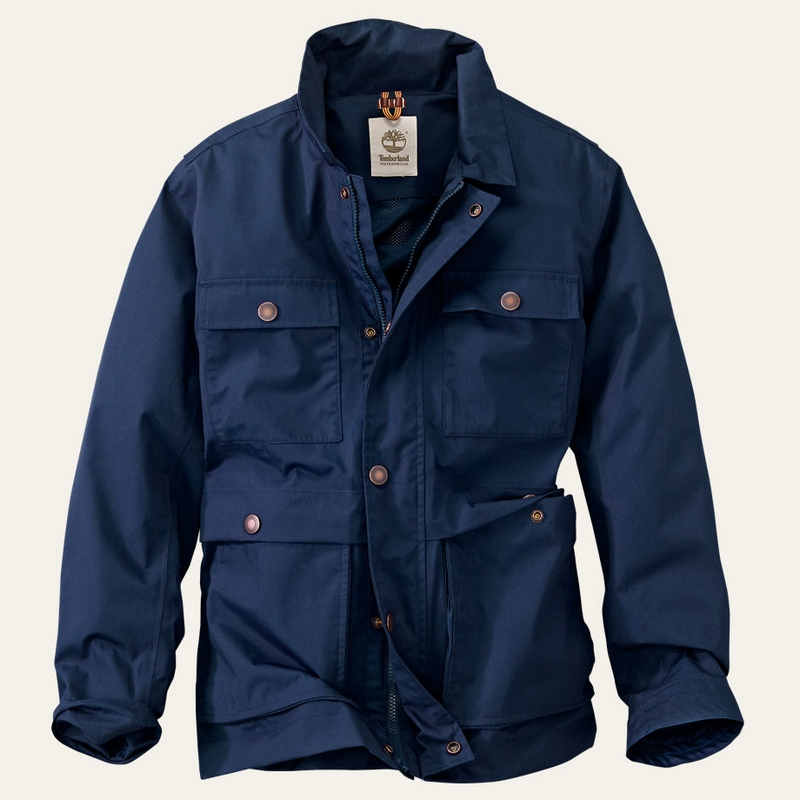
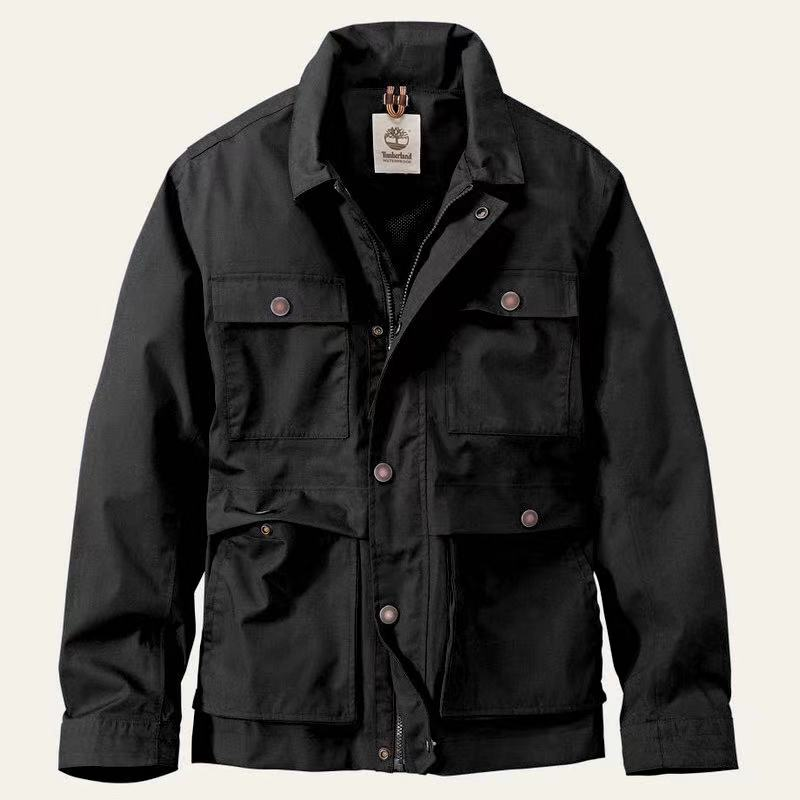
商品页点击高亮完成

diff --git a/src/pages/Product/index.vue b/src/pages/Product/index.vue
@@ -21,12 +21,6 @@
             :src="url"
             :preview-src-list="srcList"
           ></el-image>
-          <el-image
-            class="img"
-            v-if="index == 3"
-            :src="url"
-            :preview-src-list="srcList"
-          ></el-image>
         </div>
         <div class="bottom">
           <img
@@ -47,17 +41,11 @@
             @mouseover="checkImg(2)"
             src="../../assets/images/product/clothes_1_3.jpg"
           />
-          <img
-            class="img"
-            index="3"
-            @mouseover="checkImg(3)"
-            src="../../assets/images/product/clothes_1_4.jpg"
-          />
         </div>
       </div>
       <div class="rightBox">
         <div class="title">
-          <h3>{{productBand+"&nbsp;"+productName }}</h3>
+          <h3>{{ productBand + "&nbsp;" + productName }}</h3>
         </div>
         <div class="meta">
           <div class="originPrice">
@@ -69,41 +57,70 @@
             <span class="type">价格</span><em>￥{{ price.toFixed(2) }}</em>
           </div>
           <div class="style">
-            <!-- 选中切换边框颜色未完成 -->
             <span class="type">款式</span>
             <img
               class="img"
-              index="0"
-              @click="checkedType(index)"
+              :class="{ 'img-selected': style == '深蓝色' }"
+              @click="style = '深蓝色'"
               src="../../assets/images/product/clothes_1_1.jpg"
             />
             <img
               class="img"
-              index="1"
-              @click="checkedType(index)"
+              :class="{ 'img-selected': style == '黑色' }"
+              @click="style = '黑色'"
               src="../../assets/images/product/clothes_1_2.jpg"
             />
             <img
               class="img"
-              index="2"
-              @click="checkedType(index)"
+              :class="{ 'img-selected': style == '卡其色' }"
+              @click="style = '卡其色'"
               src="../../assets/images/product/clothes_1_3.jpg"
-            />
-            <img
-              class="img"
-              index="3"
-              @click="checkedType(index)"
-              src="../../assets/images/product/clothes_1_4.jpg"
             />
           </div>
           <div class="size">
             <span class="type">尺寸</span>
-            <button class="checkSize">XS</button>
-            <button class="checkSize">S</button>
-            <button class="checkSize">M</button>
-            <button class="checkSize">L</button>
-            <button class="checkSize">XL</button>
-            <button class="checkSize">XXL</button>
+            <button
+              class="checkSize"
+              @click="size = 'XS'"
+              :class="{ 'size-selected': size == 'XS' }"
+            >
+              XS
+            </button>
+            <button
+              class="checkSize"
+              @click="size = 'S'"
+              :class="{ 'size-selected': size == 'S' }"
+            >
+              S
+            </button>
+            <button
+              class="checkSize"
+              @click="size = 'M'"
+              :class="{ 'size-selected': size == 'M' }"
+            >
+              M
+            </button>
+            <button
+              class="checkSize"
+              @click="size = 'L'"
+              :class="{ 'size-selected': size == 'L' }"
+            >
+              L
+            </button>
+            <button
+              class="checkSize"
+              @click="size = 'XL'"
+              :class="{ 'size-selected': size == 'XL' }"
+            >
+              XL
+            </button>
+            <button
+              class="checkSize"
+              @click="size = 'XXL'"
+              :class="{ 'size-selected': size == 'XXL' }"
+            >
+              XXL
+            </button>
           </div>
           <div class="number">
             <ul>
@@ -140,14 +157,16 @@
     </div>
     <div class="line"></div>
     <div class="description">
-       <el-descriptions title="商品信息">
-         <el-descriptions-item label="商品名">{{productName}}</el-descriptions-item>
-         <el-descriptions-item label="品牌">{{productBand}}</el-descriptions-item>
-         <el-descriptions-item label="商品介绍">{{productDescription}}</el-descriptions-item>
-         <el-descriptions-item label="颜色">{{productStyle}}</el-descriptions-item>
-         <el-descriptions-item label="尺码">{{productSize}}</el-descriptions-item>
-       </el-descriptions>
-     </div>
+      <el-descriptions title="商品信息">
+        <el-descriptions-item label="商品名">{{ productName }}</el-descriptions-item>
+        <el-descriptions-item label="品牌">{{ productBand }}</el-descriptions-item>
+        <el-descriptions-item label="商品介绍">{{
+          productDescription
+        }}</el-descriptions-item>
+        <el-descriptions-item label="颜色">{{ productStyle }}</el-descriptions-item>
+        <el-descriptions-item label="尺码">{{ productSize }}</el-descriptions-item>
+      </el-descriptions>
+    </div>
   </div>
 </template>
 
@@ -159,11 +178,14 @@ export default {
     return {
       url: require("../../assets/images/product/clothes_1_1.jpg"),
       index: 0,
+      isimgprimary: -1,
       productName: "男士经典款防水防风外套/夹克/风衣",
       productBand: "Timberland/添柏岚",
-      productDescription:"适用于秋冬季节穿搭的美式休闲外套",
-      productStyle:"深蓝色 卡其色 黑色",
-      productSize:"XS S M L XL XXL",
+      productDescription: "适用于秋冬季节穿搭的美式休闲外套",
+      productStyle: "深蓝色 黑色 卡其色 ",
+      productSize: "XS S M L XL XXL",
+      style: "深蓝色",
+      size: "M",
       price: 926.1,
       count: 1,
       srcList: [
@@ -171,7 +193,6 @@ export default {
         require("../../assets/images/product/clothes_1_1.jpg"),
         require("../../assets/images/product/clothes_1_2.jpg"),
         require("../../assets/images/product/clothes_1_3.jpg"),
-        require("../../assets/images/product/clothes_1_4.jpg"),
       ],
     };
   },
@@ -196,8 +217,8 @@ export default {
         this.count = 3;
       }
     },
-    checkedType(){
-      console.log(true)
+    checkType(index) {
+      this.isimgprimary = index;
     },
   },
 };

diff --git a/src/assets/css/home.css b/src/assets/css/home.css
@@ -522,6 +522,14 @@ body {
     border: 2px solid #ff4400;
 }
 
+.product .productContainer .rightBox .meta .style .img-selected {
+    height: 36px;
+    width: 36px;
+    border: 2px solid #ff4400;
+    cursor: pointer;
+    margin-right: 5px;
+}
+
 .product .productContainer .rightBox .meta .size {
     width: 100%;
     height: 40px;
@@ -540,6 +548,15 @@ body {
 
 .product .productContainer .rightBox .meta .size .checkSize:hover {
     border: 2px solid #ff4400;
+}
+
+.product .productContainer .rightBox .meta .size .size-selected{
+    width: auto;
+    height: 28px;
+    padding: 3px 6px;
+    border: 2px solid #ff4400;
+    cursor: pointer;
+    margin-right: 5px;
 }
 
 .product .productContainer .rightBox .meta .number {
@@ -612,17 +629,19 @@ li {
     border-radius: 2px;
 }
 
-.product .line{
+.product .line {
     border-bottom: 1px solid #4d4d4d;
     width: 100%;
     height: auto;
 }
-.product .description{
+
+.product .description {
     width: 1140px;
     float: left;
     margin-top: 50px;
     margin-left: 10px;
 }
+
 /* 购物车 */
 .cart {
     width: 1140px;

diff --git a/src/main.js b/src/main.js
@@ -5,6 +5,7 @@ import 'element-ui/lib/theme-chalk/index.css'
 import "@/assets/icon-font/iconfont.css"
 import "@/assets/icon-font/iconfont"
 import VueParticles from 'vue-particles'
+
 //全局组件
 import HomeItem from '@/pages/Home/HomeItem';
 //参数：全局组件的名字，组件名
